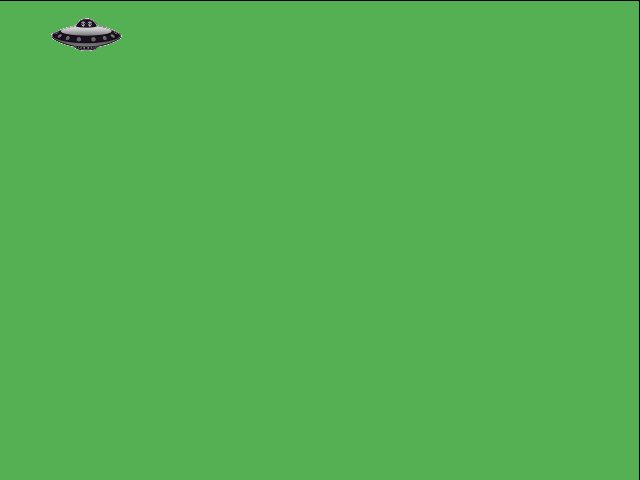
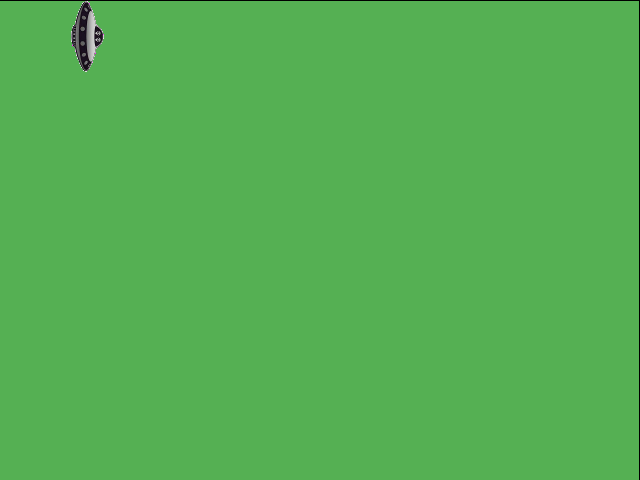
show rotations

Changed region(s): [[0.0625, 0.0, 0.1875, 0.1562]]

diff --git a/sun/lib/game.rb b/sun/lib/game.rb
@@ -79,12 +79,19 @@ class Game
     @movement_distance.nil? ? @@MOVEMENT_DISTANCE : @movement_distance
   end
 
+
   def update_game_state
     if @keys[@@RIGHT]
       @player.turn(turn_speed)
     end
+    if @keys[@@LEFT]
+      @player.turn(-turn_speed)
+    end
     if @keys[@@UP]
       @player.move_forward(movement_distance)
+    end
+    if @keys[@@DOWN]
+      @player.move_forward(-movement_distance)
     end
 
     @animation_manager.tick

diff --git a/sun/lib/player.rb b/sun/lib/player.rb
@@ -42,6 +42,6 @@ class Player
   end
 
   def draw(screen)
-    @avatar.draw(@position[0] - @avatar.width/2.0, @position[1] - @avatar.height/2.0, 1)
+    @avatar.draw_rot(@position[0] , @position[1] , ZOrder.dynamic.value, @direction)
   end
 end
